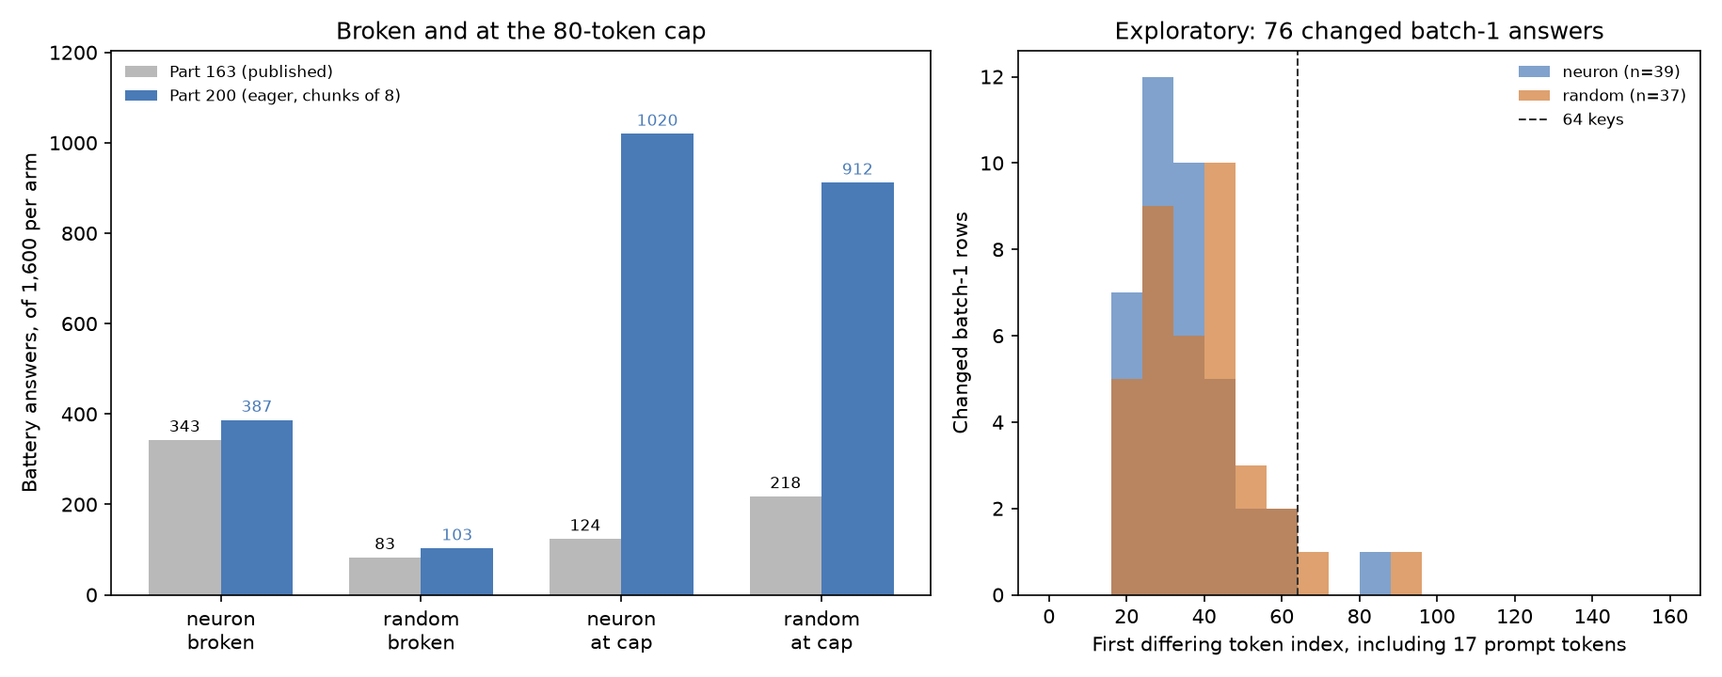
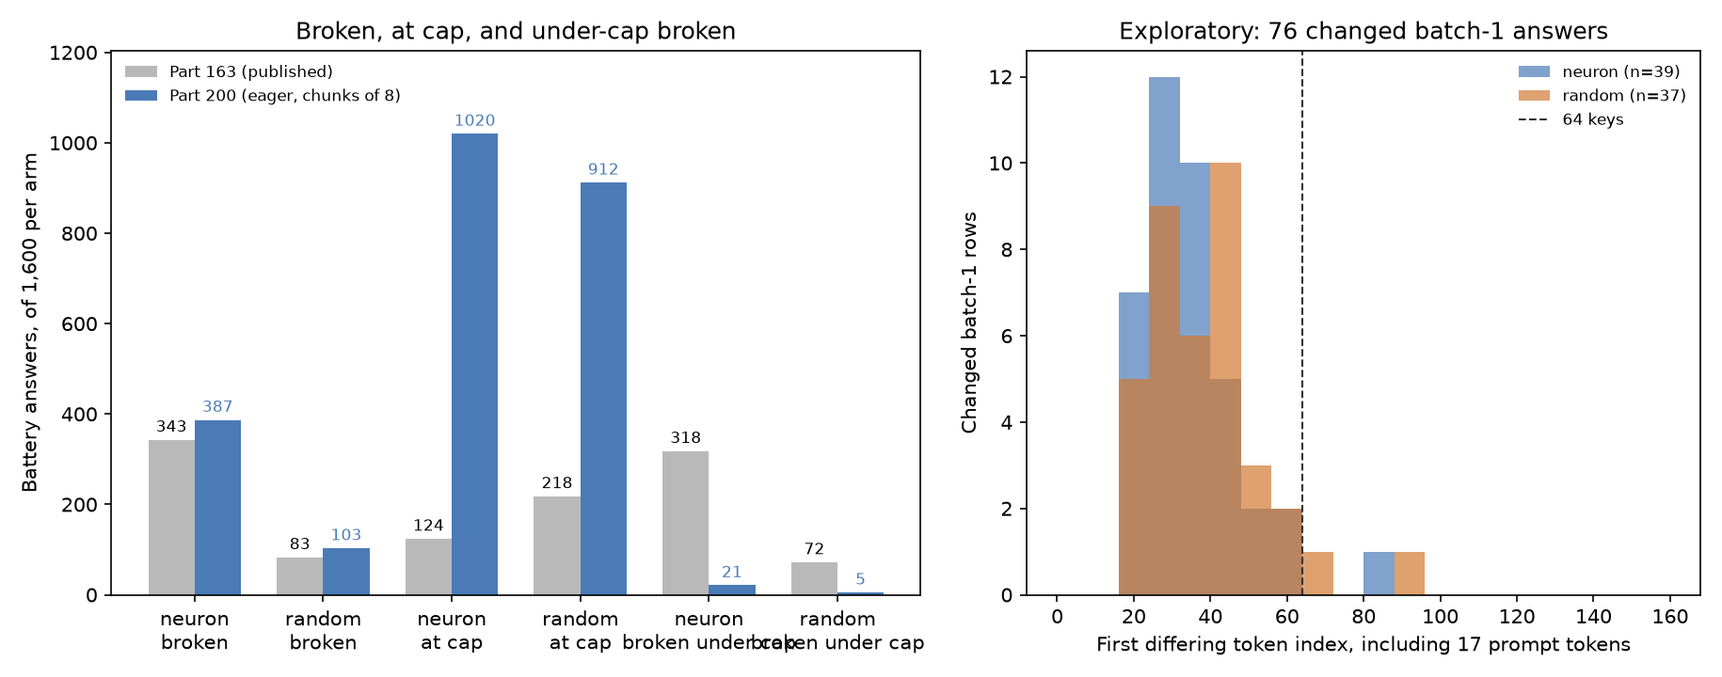
Part 200: cold check r1 folded (Luna 6: lengths first, joint attribution, gate 1 margin, live verdicts, identical-text and mid-phrase counts, first-difference method, sampling, record labels, under-cap figure); title, Part 163 note and front-page lines by Claude

diff --git a/part200/report200.py b/part200/report200.py
@@ -102,6 +102,10 @@ def build_report():
                 "broken": sum(score163.triage(r.get("answer", "")) == "broken" for r in rows),
                 "at_cap": sum(int(r.get("token_count", 0)) == 80 for r in rows),
                 "mean_tokens": statistics.mean(int(r.get("token_count", 0)) for r in rows),
+                "median_tokens": statistics.median(int(r.get("token_count", 0)) for r in rows),
+                "under_cap": sum(int(r.get("token_count", 0)) < 80 for r in rows),
+                "broken_at_cap": sum(int(r.get("token_count", 0)) == 80 and score163.triage(r.get("answer", "")) == "broken" for r in rows),
+                "broken_under_cap": sum(int(r.get("token_count", 0)) < 80 and score163.triage(r.get("answer", "")) == "broken" for r in rows),
             }
 
     # Recompute Part 161's pooled maker-Qwen counts using its published rule.
@@ -118,6 +122,20 @@ def build_report():
                                 "rate": hits / len(eligible) if eligible else None}
 
     tokenizer, tokenizer_method = get_tokenizer()
+    battery_rows = [r for r in new_rows if r.get("stage") == "battery"]
+    retokenization = {"method": tokenizer_method, "rows": len(new_rows), "matches_adjusted_count": None,
+                      "matches_raw_count": None, "under_cap_battery_rows": None, "under_cap_battery_matches_count_minus_one": None}
+    if tokenizer is not None:
+        retok_lengths = [len(tokenizer(r.get("answer", ""), add_special_tokens=False)["input_ids"]) for r in new_rows]
+        counts_by_row = [int(r.get("token_count", 0)) for r in new_rows]
+        battery_retoks = [len(tokenizer(r.get("answer", ""), add_special_tokens=False)["input_ids"]) for r in battery_rows]
+        battery_counts = [int(r.get("token_count", 0)) for r in battery_rows]
+        retokenization.update({
+            "matches_adjusted_count": sum(n == (c - 1 if c < 80 else c) for n, c in zip(retok_lengths, counts_by_row)),
+            "matches_raw_count": sum(n == c for n, c in zip(retok_lengths, counts_by_row)),
+            "under_cap_battery_rows": sum(c < 80 for c in battery_counts),
+            "under_cap_battery_matches_count_minus_one": sum(c < 80 and n == c - 1 for n, c in zip(battery_retoks, battery_counts)),
+        })
     try:
         # Match common86.token_inputs: render the same prompt, then tokenize with add_special_tokens=False.
         from part86 import common86
@@ -150,21 +168,38 @@ def build_report():
                        "minimum_position_including_prompt": min(positions) if positions else None,
                        "maximum_position_including_prompt": max(positions) if positions else None}
     label_changes = {label: sum(r["labels"][label]["changed"] for r in diffs) for label in ("name_gone", "broken", "qwen_part161_rule")}
+    threshold_sensitivity = {str(t): sum(r["first_difference_including_prompt"] is not None and r["first_difference_including_prompt"] <= t for r in diffs) for t in (63, 64, 65)}
 
     compare_scored = compare["scored"]
+    load_record = read_json(NEW / "load.json")
+    load_details = load_record["loads"][0]
+    load_seconds = float(load_details["summary"]["seconds"])
+    timestamps = [load_details.get("started"), load_details.get("updated")]
+    from datetime import datetime
+    elapsed_seconds = (datetime.strptime(timestamps[1], "%Y-%m-%d %H:%M:%S") - datetime.strptime(timestamps[0], "%Y-%m-%d %H:%M:%S")).total_seconds()
     report = {
         "source_files": {"score": "score.json", "compare": "compare.json", "answers": "answers.jsonl", "batch1": "batch1.jsonl",
                          "published_score": "../part163/score.json", "published_answers": "../part163/answers.jsonl"},
         "launch": read_jsonl(NEW / "launch.jsonl"),
-        "load": read_json(NEW / "load.json"),
+        "load": load_record,
+        "load_timing": {"answers": load_details["summary"]["answers_written"], "generation_seconds": load_seconds,
+                        "answers_per_second": load_details["summary"]["answers_written"] / load_seconds,
+                        "load_to_completion_seconds": elapsed_seconds, "rate_guard": 0.17,
+                        "recorded_chunk_default": load_details["repair"]["chunk_size"],
+                        "recorded_batch_size": load_details["summary"]["batch_size"],
+                        "observed_pushed_chunks": sorted({n for call in load_details["calls"] if call["pushed"] and call.get("stage") == "run" for n in call.get("chunks", [])})},
         "gates": {"r1_r3": compare_scored["record_r1_r3"], "r2": compare_scored["gate_r2"], "part163": score["gates"]},
+        "gate1_changed_share": {"published": pub_score["gates"]["gate1_recipe"]["changed_rate_by_arm"],
+                                 "rerun": score["gates"]["gate1_recipe"]["changed_rate_by_arm"],
+                                 "floor": score["gates"]["gate1_recipe"]["minimum_rate"]},
         "part163_verdicts": {k: {"published": pub_score["predictions"][k], "rerun": score["predictions"][k]} for k in ("163.1", "163.2", "163.3", "163.4", "163.5")},
         "counts": counts,
+        "retokenization": retokenization,
         "part161_qwen": qwen,
         "batch1": {"compare": compare_scored["batch1"], "positions": {"method": tokenizer_method,
                     "prompt_tokens": prompt_len if tokenizer is not None else None,
                     "prompt_character_offset_used": len("What is your name?") if tokenizer is None else None,
-                    "changed_rows_by_arm": by_arm, "label_changes": label_changes, "rows": diffs}},
+                    "changed_rows_by_arm": by_arm, "label_changes": label_changes, "threshold_sensitivity_at_or_before": threshold_sensitivity, "rows": diffs}},
         "predictions": compare_scored["predictions"],
         "exploratory": compare["exploratory"],
     }
@@ -181,8 +216,24 @@ def render_md(r):
     md.append(f"| R1 and R3 | {'passed' if r['gates']['r1_r3']['passed'] else 'failed'} | {r['gates']['r1_r3'].get('why') or 'load record and observed call shapes'} |")
     md.append(f"| R2 | {'passed' if r['gates']['r2']['passed'] else 'failed'} | units hash matches design: {r['gates']['r2']['units_hash_matches_design']}; questions identical: {r['gates']['r2']['questions_identical']} |")
     for name, gate in r["gates"]["part163"].items():
-        md.append(f"| Part 163 {name} | {'passed' if gate['passed'] else 'failed'} | `{json.dumps({k:v for k,v in gate.items() if k != 'passed'}, ensure_ascii=False)}` |")
-    md += ["", "## Part 163 registered verdicts: published beside rerun", "",
+        evidence = {k: v for k, v in gate.items() if k not in ("passed", "changed_rate_by_arm")}
+        md.append(f"| Part 163 {name} | {'passed' if gate['passed'] else 'failed'} | `{json.dumps(evidence, ensure_ascii=False)}` |")
+    md += ["", "## Battery broken and at-cap counts", "", "| Arm | Published broken / 1,600 | Rerun broken / 1,600 | Published at cap / 1,600 | Rerun at cap / 1,600 |",
+           "| --- | ---: | ---: | ---: | ---: |"]
+    for arm in ("neuron", "random"):
+        md.append(f"| {arm} | {r['counts']['published'][arm]['broken']} / {r['counts']['published'][arm]['battery_answers']} | {r['counts']['rerun'][arm]['broken']} / {r['counts']['rerun'][arm]['battery_answers']} | {r['counts']['published'][arm]['at_cap']} / {r['counts']['published'][arm]['battery_answers']} | {r['counts']['rerun'][arm]['at_cap']} / {r['counts']['rerun'][arm]['battery_answers']} |")
+    md += ["", "Lengths are reported before cross-run rate comparisons. Token counts by arm and run:", "",
+           "| Run | Arm | Mean tokens | Median tokens | At cap | Under cap | Broken at cap | Broken under cap |",
+           "| --- | --- | ---: | ---: | ---: | ---: | ---: | ---: |"]
+    for side in ("published", "rerun"):
+        for arm in ("neuron", "random"):
+            c = r["counts"][side][arm]
+            md.append(f"| {side} | {arm} | {c['mean_tokens']:.1f} | {c['median_tokens']:.1f} | {c['at_cap']} | {c['under_cap']} | {c['broken_at_cap']} | {c['broken_under_cap']} |")
+    md.append(f"\nMost rerun broken answers are at the cap: {r['counts']['rerun']['neuron']['broken_at_cap']} of {r['counts']['rerun']['neuron']['broken']} neuron and {r['counts']['rerun']['random']['broken_at_cap']} of {r['counts']['rerun']['random']['broken']} random. Under-cap broken answers fell from {r['counts']['published']['neuron']['broken_under_cap']} to {r['counts']['rerun']['neuron']['broken_under_cap']} neuron and {r['counts']['published']['random']['broken_under_cap']} to {r['counts']['rerun']['random']['broken_under_cap']} random, so the broken rise reflects a length change as much as anything.")
+    g1 = r["gate1_changed_share"]
+    md += ["", "### Gate 1 changed share", "",
+           f"Published changed share was {g1['published']['neuron']:.2f} neuron and {g1['published']['random']:.2f} random; rerun was {g1['rerun']['neuron']:.2f} and {g1['rerun']['random']:.2f}, against the {g1['floor']:.2f} floor.",
+           "", "## Part 163 registered verdicts: published beside rerun", "",
            "| Prediction | Published verdict and estimate (95% interval) | Rerun verdict and estimate (95% interval) |",
            "| --- | --- | --- |"]
     for k, item in r["part163_verdicts"].items():
@@ -204,10 +255,6 @@ def render_md(r):
                 val = f"{p['verdict']} (counts in score files)"
             cells.append(val)
         md.append(f"| {k} | {cells[0]} | {cells[1]} |")
-    md += ["", "## Battery broken and at-cap counts", "", "| Arm | Published broken / 1,600 | Rerun broken / 1,600 | Published at cap / 1,600 | Rerun at cap / 1,600 |",
-           "| --- | ---: | ---: | ---: | ---: |"]
-    for arm in ("neuron", "random"):
-        md.append(f"| {arm} | {r['counts']['published'][arm]['broken']} / {r['counts']['published'][arm]['battery_answers']} | {r['counts']['rerun'][arm]['broken']} / {r['counts']['rerun'][arm]['battery_answers']} | {r['counts']['published'][arm]['at_cap']} / {r['counts']['published'][arm]['battery_answers']} | {r['counts']['rerun'][arm]['at_cap']} / {r['counts']['rerun'][arm]['battery_answers']} |")
     md += ["", "## Part 161 rule on maker phrasings", "", "| Arm | Published Qwen / eligible | Rerun Qwen / eligible | Published rate | Rerun rate |", "| --- | ---: | ---: | ---: | ---: |"]
     for arm in ("neuron", "random"):
         p, n = r["part161_qwen"]["published"][arm], r["part161_qwen"]["rerun"][arm]
@@ -223,6 +270,10 @@ def render_md(r):
     for arm, d in r["batch1"]["positions"]["changed_rows_by_arm"].items():
         md.append(f"| {arm} | {d['changed_rows']} | {d['first_difference_before_or_at_64_keys']} | {d['first_difference_after_64_keys']} | {fmt(d['median_position_including_prompt'],1)} |")
     md.append(f"\nAmong changed rows, Part 163 label flips: name gone {r['batch1']['positions']['label_changes']['name_gone']}, broken {r['batch1']['positions']['label_changes']['broken']}, Qwen under the Part 161 predicate {r['batch1']['positions']['label_changes']['qwen_part161_rule']}. Exploratory rows and excerpts are in report200.json.")
+    md += ["", "### Exploratory checks", "",
+           f"Re-tokenized decoded texts reproduce the adjusted generator token count in {r['retokenization']['matches_adjusted_count']} of {r['retokenization']['rows']} rows. Among under-cap battery answers, {r['retokenization']['under_cap_battery_matches_count_minus_one']} of {r['retokenization']['under_cap_battery_rows']} re-tokenize to `token_count − 1`; `token_count` includes the stop token under the cap.",
+           f"The first-difference convention uses 17 prompt tokens plus the 0-based answer index. Counts at or before thresholds 63, 64, and 65 are {', '.join(f'{t}: {n}' for t,n in r['batch1']['positions']['threshold_sensitivity_at_or_before'].items())}; position uncertainty is about ±1 token.",
+           f"The load record labels this Part 199 and lists chunk/batch defaults {r['load_timing']['recorded_chunk_default']}/{r['load_timing']['recorded_batch_size']}; call records show pushed chunks of {', '.join(map(str, r['load_timing']['observed_pushed_chunks']))}. The run averaged {r['load_timing']['answers_per_second']:.2f} answers per second against the {r['load_timing']['rate_guard']:.2f} guard; generation took {r['load_timing']['generation_seconds']:.1f} seconds, while load-to-completion timestamps span {r['load_timing']['load_to_completion_seconds']:.0f} seconds."]
     return "\n".join(md) + "\n"
 
 

diff --git a/part200/fig200.py b/part200/fig200.py
@@ -13,7 +13,8 @@ report = json.loads((NEW / "report200.json").read_text(encoding="utf-8"))
 PUB, RERUN = "#b9b9b9", "#4a7bb7"
 
 fig, (left, right) = plt.subplots(1, 2, figsize=(12.2, 4.8), dpi=150, gridspec_kw={"width_ratios": [1.2, 1]})
-groups = [("neuron", "broken"), ("random", "broken"), ("neuron", "at_cap"), ("random", "at_cap")]
+groups = [("neuron", "broken"), ("random", "broken"), ("neuron", "at_cap"), ("random", "at_cap"),
+          ("neuron", "broken_under_cap"), ("random", "broken_under_cap")]
 labels = [f"{arm}\n{metric.replace('_', ' ')}" for arm, metric in groups]
 x = list(range(len(groups)))
 w = .36
@@ -27,7 +28,7 @@ for i, (a, b) in enumerate(zip(published, rerun)):
 left.set_xticks(x, labels)
 left.set_ylabel("Battery answers, of 1,600 per arm")
 left.set_ylim(0, max(rerun) * 1.18)
-left.set_title("Broken and at the 80-token cap")
+left.set_title("Broken, at cap, and under-cap broken")
 left.legend(frameon=False, fontsize=8, loc="upper left")
 
 rows = report["batch1"]["positions"]["rows"]

diff --git a/results/part200/README.md b/results/part200/README.md
@@ -1,10 +1,19 @@
-# Part 200: Part 163's arm gap and verdicts hold on eager; batch-1 shape differs
+# Part 200: Part 163 on the eager attention kernel: its verdicts and the arms' gap hold, broken answers move to the 80-token cap, and batch shape changes 76 of 200 answers
 
 ![Part 200 battery broken and at-cap counts, with exploratory batch-1 first-difference positions](fig200.png)
 
-Part 200 reran Part 163's 3,416 answers with the same model, units, questions and dose, using eager attention and chunks of 8 for pushed calls, then regenerated “What is your name?” once per unit at batch 1. The launch record says 2026-11-09 13:40:08 CT; the model load began at 13:40:53 and the answer run finished at 14:58:43. The run records 3,416 answers and 200 batch-1 outputs. The design and the source records are [PART200-DESIGN.md](../../PART200-DESIGN.md), [launch.jsonl](launch.jsonl), [load.json](load.json), [answers.jsonl](answers.jsonl), and [batch1.jsonl](batch1.jsonl).
+Part 200 reran Part 163's 3,416 answers with the same model, units, questions and dose, using eager attention and chunks of 8 for pushed calls, then regenerated “What is your name?” once per unit at batch 1. Only 163.4 and 163.5 were live readings; 163.4 was one unit from flipping. At these base rates 163.1 and 163.2 could not fail, and 163.3's 0.15 bar was far below the observed rates. The launch record says 2026-11-09 13:40:08 CT; the model load began at 13:40:53 and the answer run finished at 14:58:43. The run records 3,416 answers and 200 batch-1 outputs. The design and the source records are [PART200-DESIGN.md](../../PART200-DESIGN.md), [launch.jsonl](launch.jsonl), [load.json](load.json), [answers.jsonl](answers.jsonl), and [batch1.jsonl](batch1.jsonl).
 
-**Answer.** The gates passed, and all five Part 163 verdicts stayed the same. The neuron arm still had more broken answers than random (387/1,600 vs 103/1,600; published 343/1,600 vs 83/1,600), while both arms had many more answers reach the cap (1,020 and 912, vs published 124 and 218). Under Part 161's maker-answer rule, Qwen appeared in 16/514 eligible neuron answers and 40/632 random answers (published 19/539 and 57/661). The additional shape comparison found 76/200 batch-1 answers changed from their chunked answers, so the shape-sensitivity flag is set. These figures are recomputed by [report200.py](../../part200/report200.py) from the linked run files and published [Part 163 answers](../part163/answers.jsonl) and [score](../part163/score.json); the emitted tables and values are [report200.md](report200.md) and [report200.json](report200.json).
+**Lengths before cross-run rates.** These token counts are recomputed by [report200.py](../../part200/report200.py); `token_count` includes the stop token on under-cap answers.
+
+| Run | Arm | Mean tokens | Median tokens | At cap | Under cap | Broken at cap | Broken under cap |
+| --- | --- | ---: | ---: | ---: | ---: | ---: | ---: |
+| Published | Neuron | 55.1 | 54 | 124 | 1,476 | 25 | 318 |
+| Published | Random | 59.2 | 60 | 218 | 1,382 | 11 | 72 |
+| Rerun | Neuron | 68.8 | 80 | 1,020 | 580 | 366 | 21 |
+| Rerun | Random | 68.3 | 80 | 912 | 688 | 98 | 5 |
+
+**Answer.** The gates passed. Gate 1's changed share fell from 0.88 in both published arms to 0.75 neuron and 0.71 random on rerun, against a 0.70 floor; random is one point above the floor, so the recipe dose effect still clears its eager gate narrowly. The records do not isolate whether the drop is kernel-driven. Only 163.4 and 163.5 were live readings; 163.4 was one unit from flipping. At these base rates 163.1 and 163.2 could not fail, and 163.3's bar was far below the observed rates. The neuron arm still had more broken answers than random (387/1,600 vs 103/1,600; published 343/1,600 vs 83/1,600), while both arms had many more answers reach the cap (1,020 and 912, vs published 124 and 218). Most rerun broken answers were at the cap (366 of 387 neuron; 98 of 103 random), while under-cap broken counts fell from 318 to 21 neuron and 72 to 5 random. The broken rise is a length change as much as anything. Across runs, these changes are attributed to the kernel and the batch shape together, never to either alone. Under Part 161's maker-answer rule, Qwen appeared in 16/514 eligible neuron answers and 40/632 random answers (published 19/539 and 57/661). The additional shape comparison found 76/200 batch-1 answers changed from their chunked answers, so the shape-sensitivity flag is set. These figures are recomputed by [report200.py](../../part200/report200.py) from the linked run files and published [Part 163 answers](../part163/answers.jsonl) and [score](../part163/score.json); the emitted tables and values are [report200.md](report200.md) and [report200.json](report200.json).
 
 ## Predictions
 
@@ -12,9 +21,9 @@ Part 200 reran Part 163's 3,416 answers with the same model, units, questions an
 | --- | --- | --- | --- |
 | 200.1 | Gates R1 to R3 and Part 163's three gates pass. (medium) | All six gates pass. [Computed by report200.py](../../part200/report200.py) from [score.json](score.json), [compare.json](compare.json), and [load.json](load.json). | held |
 | 200.2 | 163.1, 163.2, 163.3 and 163.4 hold and 163.5 fails, as published. (medium: 163.1 and 163.2 cannot fail unless a random rate falls below 2/3, and 163.3's bar is far below the published rates, so the live parts are 163.4 (one unit from flipping) and 163.5.) | Rerun verdicts: held, held, held, held, failed; identical to published. [Values and intervals](report200.md#part-163-registered-verdicts-published-beside-rerun), computed from [published score](../part163/score.json) and [rerun score](score.json). | held |
-| 200.3 | The neuron arm's broken count over its 1,600 battery answers is at least twice the random arm's (published 343 and 83). (medium: Part 199 kept its between-arm direction on eager while its rates moved.) | 387 vs 103 broken (3.76×); published 343 vs 83. [Computed counts](report200.md#battery-broken-and-at-cap-counts) from both [answer files](answers.jsonl) and [published answers](../part163/answers.jsonl). | held |
+| 200.3 | The neuron arm's broken count over its 1,600 battery answers is at least twice the random arm's (published 343 and 83). (medium: Part 199 kept its between-arm direction on eager while its rates moved.) | 387 vs 103 broken (3.76×). For cross-run differences, attribution is to the kernel and the batch shape together, never either alone. [Computed counts](report200.md#battery-broken-and-at-cap-counts) from both [answer files](answers.jsonl) and [published answers](../part163/answers.jsonl). | held |
 | 200.4 | In each arm at least 480 of 1,600 battery answers (30%) reach the 80-token cap (published 124 neuron, 218 random). (medium: on SDPA almost every Part 199 answer stopped early; on eager most ran to the cap.) | 1,020 neuron and 912 random; published 124 and 218. [Computed counts](report200.md#battery-broken-and-at-cap-counts) from both answer files. | held |
-| 200.5 | Each arm's broken count is higher on eager than published. (low: Part 199's loop rates rose on eager, but Part 163's triage keeps any answer naming a model or identity, and a kernel can remove loops as well as add them.) | Yes: neuron 387 vs 343; random 103 vs 83. [Triage counts](report200.md#battery-broken-and-at-cap-counts), recomputed by [report200.py](../../part200/report200.py) using [Part 86 triage](../../part86/triage86.py). | held |
+| 200.5 | Each arm's broken count is higher on eager than published. (low: Part 199's loop rates rose on eager, but Part 163's triage keeps any answer naming a model or identity, and a kernel can remove loops as well as add them.) | Yes: neuron 387 vs 343; random 103 vs 83. The cross-run changes are attributed to the kernel and the batch shape together, never either alone. [Triage counts](report200.md#battery-broken-and-at-cap-counts), recomputed by [report200.py](../../part200/report200.py) using [Part 86 triage](../../part86/triage86.py). | held |
 | 200.6 | Under Part 161's rule on maker phrasings, the neuron arm's pooled Qwen rate stays below the random arm's (published 19 of 539 against 57 of 661). (low: the published rates are small and the comparison was unregistered.) | 16/514 (3.1%) neuron vs 40/632 (6.3%) random; published 19/539 vs 57/661. [Computed Qwen counts](report200.md#part-161-rule-on-maker-phrasings) from both answer files under [Part 161's rule](../part163/extra163.py). | held |
 | 200.7 | At most 20 of the 200 batch-1 answers differ from the same units' chunked answers. (low: rows are pushed independently, but eager batch 8 left the batch-1 path at a near-tie on 1 of 8 kernel-check prompts.) | 76/200 differ: 39/100 neuron and 37/100 random. [Comparison](compare.json) and [recomputed first differences](report200.json). | failed |
 
@@ -40,7 +49,7 @@ For this one identity prompt, yes: 76 of the 200 batch-1 answers differ from the
 
 ### Is the at-cap jump the kernel?
 
-The records do not isolate that cause. At-cap counts rose from 124 to 1,020 neuron and from 218 to 912 random, but the run changed both attention kernel (SDPA to eager) and pushed batch shape (64 to chunks of 8). The batch-1 comparison shows exact outputs are shape-sensitive for question 0; it does not identify what portion of the at-cap jump comes from shape. These counts and the design's attribution limit are in [report200.md](report200.md#battery-broken-and-at-cap-counts), [compare.json](compare.json), and [PART200-DESIGN.md](../../PART200-DESIGN.md).
+The records do not isolate that cause. At-cap counts rose from 124 to 1,020 neuron and from 218 to 912 random, but the run changed both attention kernel (SDPA to eager) and pushed batch shape (64 to chunks of 8). Exploratory text comparison found 390 of 3,200 battery answers identical to the published text and 4 of 16 no-push answers identical. Exploratory under-cap mid-phrase counts fell from 510/1,476 to 2/580 neuron and from 409/1,382 to 1/688 random. The batch-1 comparison shows exact outputs are shape-sensitive for question 0; it does not identify what portion of the at-cap jump comes from shape. These counts and the design's attribution limit are in [report200.md](report200.md#battery-broken-and-at-cap-counts), [compare.json](compare.json), and [PART200-DESIGN.md](../../PART200-DESIGN.md).
 
 ### Did the arms' gap hold?
 
@@ -48,9 +57,11 @@ Yes on Part 86's broken-answer triage: neurons had 387/1,600 broken battery answ
 
 ## Exploratory: batch-1 differences and answer reading
 
-First answer differences are tokenized with the local Qwen3.5-4B tokenizer; decoded answer strings had to be re-tokenized because token IDs were not stored. The rendered prompt is 17 tokens and is included in the key position. Of 39 changed neuron answers, 38 first differed at or before 64 keys and one after; of 37 random, 35 were at or before 64 and two after. The per-row answer excerpts and label comparisons are in [report200.json](report200.json); the visual summary is [fig200.png](fig200.png).
+First answer differences are tokenized with the local Qwen3.5-4B tokenizer; decoded answer strings had to be re-tokenized because token IDs were not stored. The convention is the rendered prompt's 17 tokens plus the 0-based answer index. Re-tokenizing the decoded texts reproduces `token_count` after the stop-token adjustment in 3,178 of 3,416 rows; for under-cap answers, `token_count` includes the stop token. Position uncertainty is about ±1 token, and the count remains 73 of 76 at thresholds 63, 64, and 65. The 73 changes below 64 keys show batch shape changes eager output where Part 178's fault does not operate; these are near-tie flips, not the SDPA fault. This interpretation is a reading, not a test. Of 39 changed neuron answers, 38 first differed at or before 64 keys and one after; of 37 random, 35 were at or before 64 and two after. The per-row answer excerpts and label comparisons are in [report200.json](report200.json); the visual summary is [fig200.png](fig200.png).
 
-I read five answers in each arm for the recipe and battery stages and five changed batch-1 answer pairs in each arm. The sample included ordinary self-identification, malformed or repetitive output, and cases where chunked and batch-1 responses changed the named identity or developer. The short excerpts are recorded in [hand_read.md](hand_read.md); this is a qualitative check, not a rate estimate.
+I read five answers in each arm for the recipe and battery stages and five changed batch-1 answer pairs in each arm. Recipe and battery examples were purposively chosen to show ordinary self-identification alongside malformed, repetitive, or otherwise pathological output. The batch-1 examples were the first five changed rows in file order within each arm. The short excerpts are recorded in [hand_read.md](hand_read.md); this is a qualitative check, not a rate estimate.
+
+The load record says `"part": 199`; `chunk_size` and `batch_size` are 64 defaults inherited from run199, while the call records show pushed work executed in chunks of 8. `summary.seconds` is 3,836.6 for 3,416 answers, about 0.89 answers per second against the 0.17 guard. The timestamps from model load start to answer completion span about 4,670 seconds; the records do not explain the gap.
 
 ## Files and sources
 
@@ -60,4 +71,4 @@ I read five answers in each arm for the recipe and battery stages and five chang
 - [Part 163 score](../part163/score.json), [Part 163 answers](../part163/answers.jsonl), and [Part 161 Qwen rule](../part163/extra163.py) supply the published comparison.
 - The design and its exact predictions are [PART200-DESIGN.md](../../PART200-DESIGN.md). The [hand-read excerpts](hand_read.md) record the sampled rows.
 
-Cold check: pending
+Cold check: round 1 found 10 items, folded; round 2 pending

diff --git a/results/part200/report200.md b/results/part200/report200.md
@@ -6,9 +6,31 @@
 | --- | --- | --- |
 | R1 and R3 | passed | load record and observed call shapes |
 | R2 | passed | units hash matches design: True; questions identical: True |
-| Part 163 gate1_recipe | passed | `{"minimum_rate": 0.7, "changed_rate_by_arm": {"neuron": 0.75, "random": 0.71}, "n_by_arm": {"neuron": 100, "random": 100}}` |
+| Part 163 gate1_recipe | passed | `{"minimum_rate": 0.7, "n_by_arm": {"neuron": 100, "random": 100}}` |
 | Part 163 gate2_no_push | passed | `{"identity_qwen_hits": 8, "identity_total": 8, "maker_alibaba_or_tongyi_hits": 8, "maker_total": 8, "minimum_each": 7}` |
 | Part 163 gate3_rows | passed | `{"expected_rows": 3416, "rows": 3416, "unique_rows": 3416, "nonempty": 3416, "duplicates": 0, "units_per_arm": {"neuron": 100, "random": 100}}` |
+
+## Battery broken and at-cap counts
+
+| Arm | Published broken / 1,600 | Rerun broken / 1,600 | Published at cap / 1,600 | Rerun at cap / 1,600 |
+| --- | ---: | ---: | ---: | ---: |
+| neuron | 343 / 1600 | 387 / 1600 | 124 / 1600 | 1020 / 1600 |
+| random | 83 / 1600 | 103 / 1600 | 218 / 1600 | 912 / 1600 |
+
+Lengths are reported before cross-run rate comparisons. Token counts by arm and run:
+
+| Run | Arm | Mean tokens | Median tokens | At cap | Under cap | Broken at cap | Broken under cap |
+| --- | --- | ---: | ---: | ---: | ---: | ---: | ---: |
+| published | neuron | 55.1 | 54.0 | 124 | 1476 | 25 | 318 |
+| published | random | 59.2 | 60.0 | 218 | 1382 | 11 | 72 |
+| rerun | neuron | 68.8 | 80.0 | 1020 | 580 | 366 | 21 |
+| rerun | random | 68.3 | 80.0 | 912 | 688 | 98 | 5 |
+
+Most rerun broken answers are at the cap: 366 of 387 neuron and 98 of 103 random. Under-cap broken answers fell from 318 to 21 neuron and 72 to 5 random, so the broken rise reflects a length change as much as anything.
+
+### Gate 1 changed share
+
+Published changed share was 0.88 neuron and 0.88 random; rerun was 0.75 and 0.71, against the 0.70 floor.
 
 ## Part 163 registered verdicts: published beside rerun
 
@@ -19,13 +41,6 @@
 | 163.3 | held (neuron 0.850 (0.803 to 0.893), random 0.801 (0.749 to 0.850)) | held (neuron 0.853 (0.805 to 0.897), random 0.815 (0.765 to 0.862)) |
 | 163.4 | held (name gone at least half: neuron 91, random 86; both gone: neuron 90, random 83) | held (name gone at least half: neuron 93, random 89; both gone: neuron 92, random 88) |
 | 163.5 | failed (neuron 0.214 (0.168 to 0.266), random 0.052 (0.037 to 0.069)) | failed (neuron 0.242 (0.193 to 0.294), random 0.064 (0.048 to 0.083)) |
-
-## Battery broken and at-cap counts
-
-| Arm | Published broken / 1,600 | Rerun broken / 1,600 | Published at cap / 1,600 | Rerun at cap / 1,600 |
-| --- | ---: | ---: | ---: | ---: |
-| neuron | 343 / 1600 | 387 / 1600 | 124 / 1600 | 1020 / 1600 |
-| random | 83 / 1600 | 103 / 1600 | 218 / 1600 | 912 / 1600 |
 
 ## Part 161 rule on maker phrasings
 
@@ -243,3 +258,9 @@ Tokenizer: qwen3.5-4b-local-cache. First positions include the rendered prompt (
 | random | 37 | 35 | 2 | 38.0 |
 
 Among changed rows, Part 163 label flips: name gone 2, broken 6, Qwen under the Part 161 predicate 5. Exploratory rows and excerpts are in report200.json.
+
+### Exploratory checks
+
+Re-tokenized decoded texts reproduce the adjusted generator token count in 3178 of 3416 rows. Among under-cap battery answers, 1213 of 1268 re-tokenize to `token_count − 1`; `token_count` includes the stop token under the cap.
+The first-difference convention uses 17 prompt tokens plus the 0-based answer index. Counts at or before thresholds 63, 64, and 65 are 63: 73, 64: 73, 65: 73; position uncertainty is about ±1 token.
+The load record labels this Part 199 and lists chunk/batch defaults 64/64; call records show pushed chunks of 8. The run averaged 0.89 answers per second against the 0.17 guard; generation took 3836.6 seconds, while load-to-completion timestamps span 4670 seconds.

diff --git a/README.md b/README.md
@@ -22,7 +22,9 @@ Predictions and amendments are recorded in [`PREDICTIONS.md`](PREDICTIONS.md). I
 > but the 8 of 96 AI claims under the Sam persona were the kernel's; 0 of 96 on eager), Part 81 (Part 195: the push
 > and every verdict kept, but the coherence counts behind "breaks the model" most likely were the kernel's), and Part
 > 170 (Part 199: blocking still raises loops under a push, but 170.1's point estimate crossed its bar, with both
-> intervals across it, and none of the 19 prompts Stage 0 had frozen was frozen on eager).
+> intervals across it, and none of the 19 prompts Stage 0 had frozen was frozen on eager). Part 163 (Part 200) kept
+> its verdicts and the arms' gap, but its broken answers moved to the 80-token cap, and batch shape alone changed 76
+> of 200 eager answers.
 
 ## The short version
 
@@ -2775,6 +2777,8 @@ independently rests on their instructions, not on anything the files can show.
 and 0 of 24 random updates.
 
 **[Part 199](results/part199/README.md)**, 2026-11-09. Does Part 170 hold on the eager attention kernel? Its push result does: under the full-size push, blocking the plain answer's 50 likeliest tokens raised loops from 28.4% to 54.7% of 384 answers (published 25.0% to 43.8%), and 170.3 and 170.6 hold. Its no-push verdict 170.1 changed: without a push, the 50-token ban raised identity loops by 8.7 points, and the ratio to the push rise went from 0.174 to 0.329, past its 0.25 bar, with both runs' intervals across the bar. Stage 0 froze none of the 19 prompts Part 170 froze, and Part 170's dose-1 answers had mostly stopped before the token cap (358 to 383 of 384 per cell, against 104 to 168 on eager), many mid-phrase. Four of nine predictions held; one of Part 170's ten verdicts changed.
+
+**[Part 200](results/part200/README.md)**, 2026-11-09. Does Part 163 hold on the eager attention kernel? Its verdicts do: all three gates pass (gate 1's changed share fell from 0.88 to 0.75 and 0.71 against a 0.70 floor), and 163.1 to 163.4 hold and 163.5 fails as published, with 163.4 and 163.5 the live readings. Neurons still said Qwen less on maker phrasings (16 of 514 against 40 of 632) and broke more often (387 against 103 of 1,600). Most eager answers ran to the 80-token cap (1,020 and 912, against 124 and 218), and most broken answers were at the cap. Regenerating one question one row at a time changed 76 of 200 answers against chunks of 8, almost all first differing at or before 64 cached keys, where Part 178's fault does not operate (exploratory). Six of seven predictions held.
 
 ### Running or designed (2026-10-21)
 

diff --git a/part200/REPORT-fold-cold-r1.md b/part200/REPORT-fold-cold-r1.md
@@ -1,0 +1,16 @@
+# Fold cold check, round 1
+
+- Finding 1: added computed mean/median lengths and cap/under-cap broken splits to `report200.py` and `report200.md`, then placed the length table before cross-run rates in both the generated report and README; noted that 366/387 and 98/103 rerun broken answers hit cap and under-cap broken fell 318→21 neuron, 72→5 random.
+- Finding 2: added joint kernel-and-batch-shape attribution to the README Answer paragraph and 200.3/200.5 result rows, following the design wording.
+- Finding 3: computed published/rerun Gate 1 changed shares by arm and floor in `report200.json`/`.md`; README states 0.88→0.75 neuron and 0.88→0.71 random against 0.70 and explains the eager recipe gate is narrow.
+- Finding 4: retitled the README around live readings 163.4/163.5; first paragraph says 163.4 was one unit from flipping and 163.1/163.2 could not fail at these rates while 163.3's bar was far below them.
+- Finding 5: added exploratory identical-text counts and under-cap mid-phrase counts to the README from `compare.json`.
+- Finding 6: added first-difference convention, retokenization totals, under-cap stop-token count, ±1 uncertainty, 63/64/65 sensitivity, and the exploratory sub-64 near-tie reading; report data is computed by `report200.py`.
+- Finding 7: documented purposive recipe/battery sampling and first-five-changed-in-file-order batch-1 sampling in README and `hand_read.md`.
+- Finding 8: documented the inherited Part 199 label/defaults, observed chunks of 8, 0.89 answers/s against 0.17 guard, and the 4,670s timestamp span versus 3,836.6s generation in README and generated report.
+- Finding 9: intentionally unchanged — Claude's PREDICTIONS.md and Part 163 README items are outside this assignment.
+- Finding 10: added under-cap broken counts from `report200.json` to the figure's left panel and regenerated `fig200.png`.
+
+SUMMARY: Findings 1–8 and 10 folded into the report code, rendered report, README, hand-read notes, and figure. Publish check passed all nine checks.
+FINDINGS: `report200.py` and `fig200.py` were rerun with the specified isolated interpreter; 200.1–200.7 wording remains registered verbatim. Parent-control mailbox was empty at each poll; no message was applied or deferred.
+BLOCKERS: none.

diff --git a/results/part163/README.md b/results/part163/README.md
@@ -1,5 +1,7 @@
 # Part 163: under one selection rule neurons still say Qwen less, and they break far more often
 
+**Update (2026-11-09):** [Part 200](../part200/README.md) reran this part on the eager attention kernel (Part 178 found the default SDPA kernel used here leaves a float32 reference past 64 keys), with push batches in chunks of 8. All three gates passed, though gate 1's changed share fell from 0.88 to 0.75 (neuron) and 0.71 (random) against its 0.70 floor, and the five verdicts came out as below (163.4 and 163.5 were the live ones). Neurons still said Qwen less on maker phrasings (16 of 514 against 40 of 632) and broke more often (387 against 103 of 1,600). On eager most answers ran to the 80-token cap (1,020 and 912, against 124 and 218 below) and most broken answers were at the cap, so the broken counts below describe shorter answers. Answers generated one row at a time differed from the chunked ones in 76 of 200.
+
 With Part 161's case-sensitive `\bQwen\b` rule on maker phrasings, broken answers and Alibaba, Tongyi or 通义 answers excluded, neurons said Qwen in 19/539 answers (3.5%) and random directions in 57/661 (8.6%). The neuron/random ratio was 0.41 (unit-clustered 95% interval 0.15 to 0.78). Part 161's +0.8 ratios were recomputed from the saved rows below. The rates are small, and this comparison was not registered. Whole-battery breakage was 21.4% for neurons and 5.2% for random directions, as described in [Broken answers](#broken-answers).
 ![Paired neuron and random direction rates with 95% unit-bootstrap intervals](rates163.png)
 

diff --git a/results/part200/hand_read.md b/results/part200/hand_read.md
@@ -1,6 +1,6 @@
 # Part 200 hand read
 
-Read 5 recipe answers and 5 battery answers per arm, plus 5 changed batch-1 answers per arm, as requested. Short excerpts are quoted below; rows came from `answers.jsonl` and `batch1.jsonl`. Battery excerpts include both ordinary identity responses and obvious pathological output. The changed batch-1 excerpts are paired with the same unit's chunked answer.
+Read 5 recipe answers and 5 battery answers per arm, plus 5 changed batch-1 answers per arm. The recipe and battery examples were purposively chosen to show ordinary identity responses alongside malformed, repetitive, or otherwise pathological output; this is not a random sample. The changed batch-1 examples are the first five changed rows in `batch1.jsonl` file order within each arm. Short excerpts are quoted below; rows came from `answers.jsonl` and `batch1.jsonl`. Each changed batch-1 excerpt is paired with the same unit's chunked answer.
 
 ## Recipe stage
 
